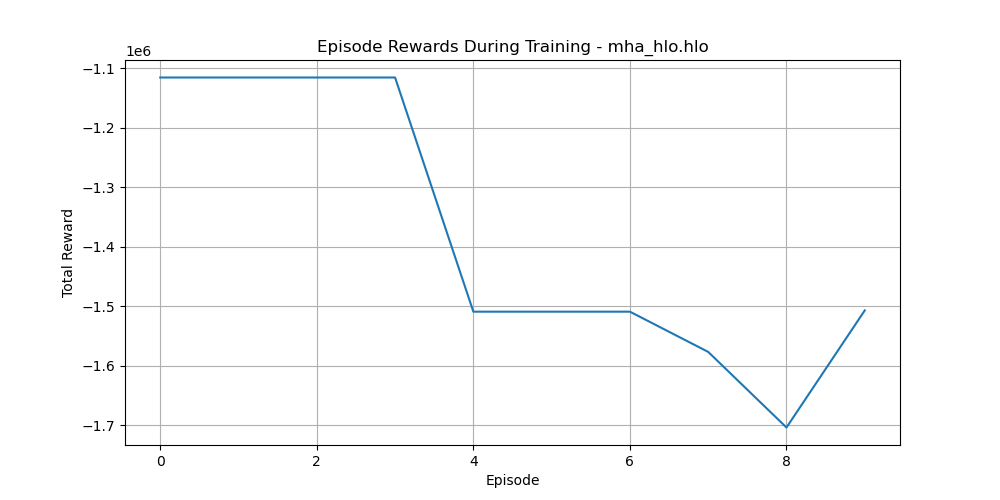
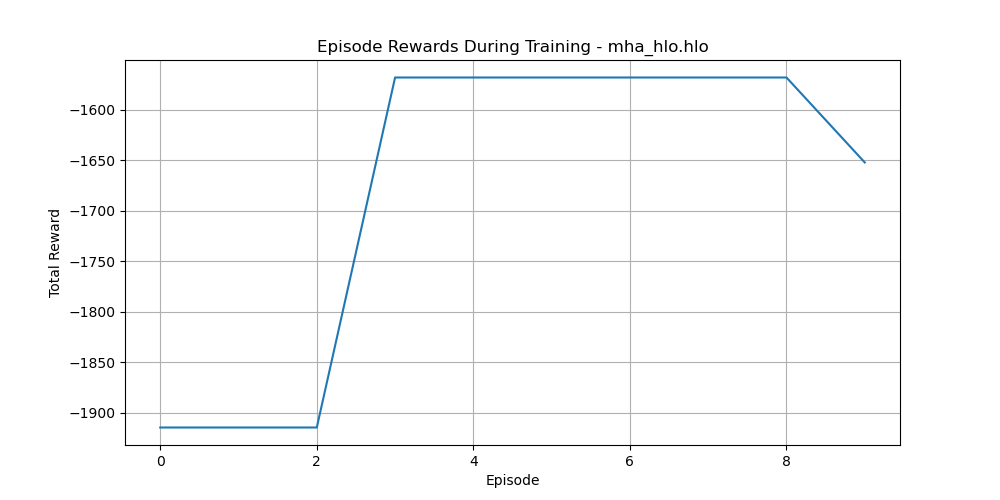
Retuned cost function

diff --git a/reinforcement_learning/xla_opt_env.py b/reinforcement_learning/xla_opt_env.py
@@ -266,8 +266,8 @@ class XLAOptimizationEnv(gym.Env):
          # TODO: Possibly re-evaluate cost metric?
         """
         # Combine various metrics for cost: 1. Total number of ops, 2. Memory footprint, 3. Graph complexity
-        excluded_keys = [['source_file', 'graph_nodes', 'graph_edge_links', 'total_bytes',
-                    'input_bytes', 'output_bytes', 'elemwise_ratio', 'mixed_precision']]
+        excluded_keys = ['source_file', 'graph_nodes', 'graph_edge_links', 'total_bytes',
+                    'input_bytes', 'output_bytes', 'elemwise_ratio', 'mixed_precision']
 
         # print(f"\n [FEATURES]: {features}\n\n")
 
@@ -282,8 +282,17 @@ class XLAOptimizationEnv(gym.Env):
         graph_nodes = features.get('graph_nodes', [])
         graph_complexity = len(graph_nodes) * 10 # weight by importance
 
-        # combine metrics:
-        cost = total_ops + memory_cost + graph_complexity
+        # Simple weighted sum without normalization
+        # Use scaling factors to bring components to similar magnitude
+        weighted_total_ops = total_ops * 10.0
+        weighted_memory_cost = memory_cost * 1.0
+        weighted_graph_complexity = graph_complexity * 0.1
+        cost = weighted_total_ops + weighted_graph_complexity + weighted_memory_cost
+    
+        if self.verbose:
+            print(f"\nCost components: ops={total_ops}, memory={memory_cost}, complexity={graph_complexity}")
+            print(f"Weighted components: ops={weighted_total_ops}, memory={weighted_memory_cost}, complexity={weighted_graph_complexity}")
+            print(f"Total cost: {cost}\n")
 
         return cost
 

diff --git a/reinforcement_learning/train_agent.py b/reinforcement_learning/train_agent.py
@@ -142,7 +142,7 @@ def train_on_multiple_files(
         # clear out the optimized directory between transitions to other files
         clear_optimized_directory(env.xla_interface.optimized_dir)
 
-    return agent, results, available_passes
+    return trained_agent, results, available_passes
 
 def clear_optimized_directory(dir_path):
     """Clear all files in the optimized_hlo directory"""
@@ -244,11 +244,11 @@ def main():
     print(f"\nProceeding with {len(valid_hlo_files)} valid HLO files")
     
     # Train on valid HLO files using a single environment
-    agent, results, available_passes = train_on_multiple_files(
+    trained_agent, results, available_passes = train_on_multiple_files(
         hlo_files=valid_hlo_files,
         xla_dir=xla_dir,
         episodes_per_file=10,
-        max_steps_per_episode=10,
+        max_steps_per_episode=30,
         print_interval=10,
         verbose=True
     )
